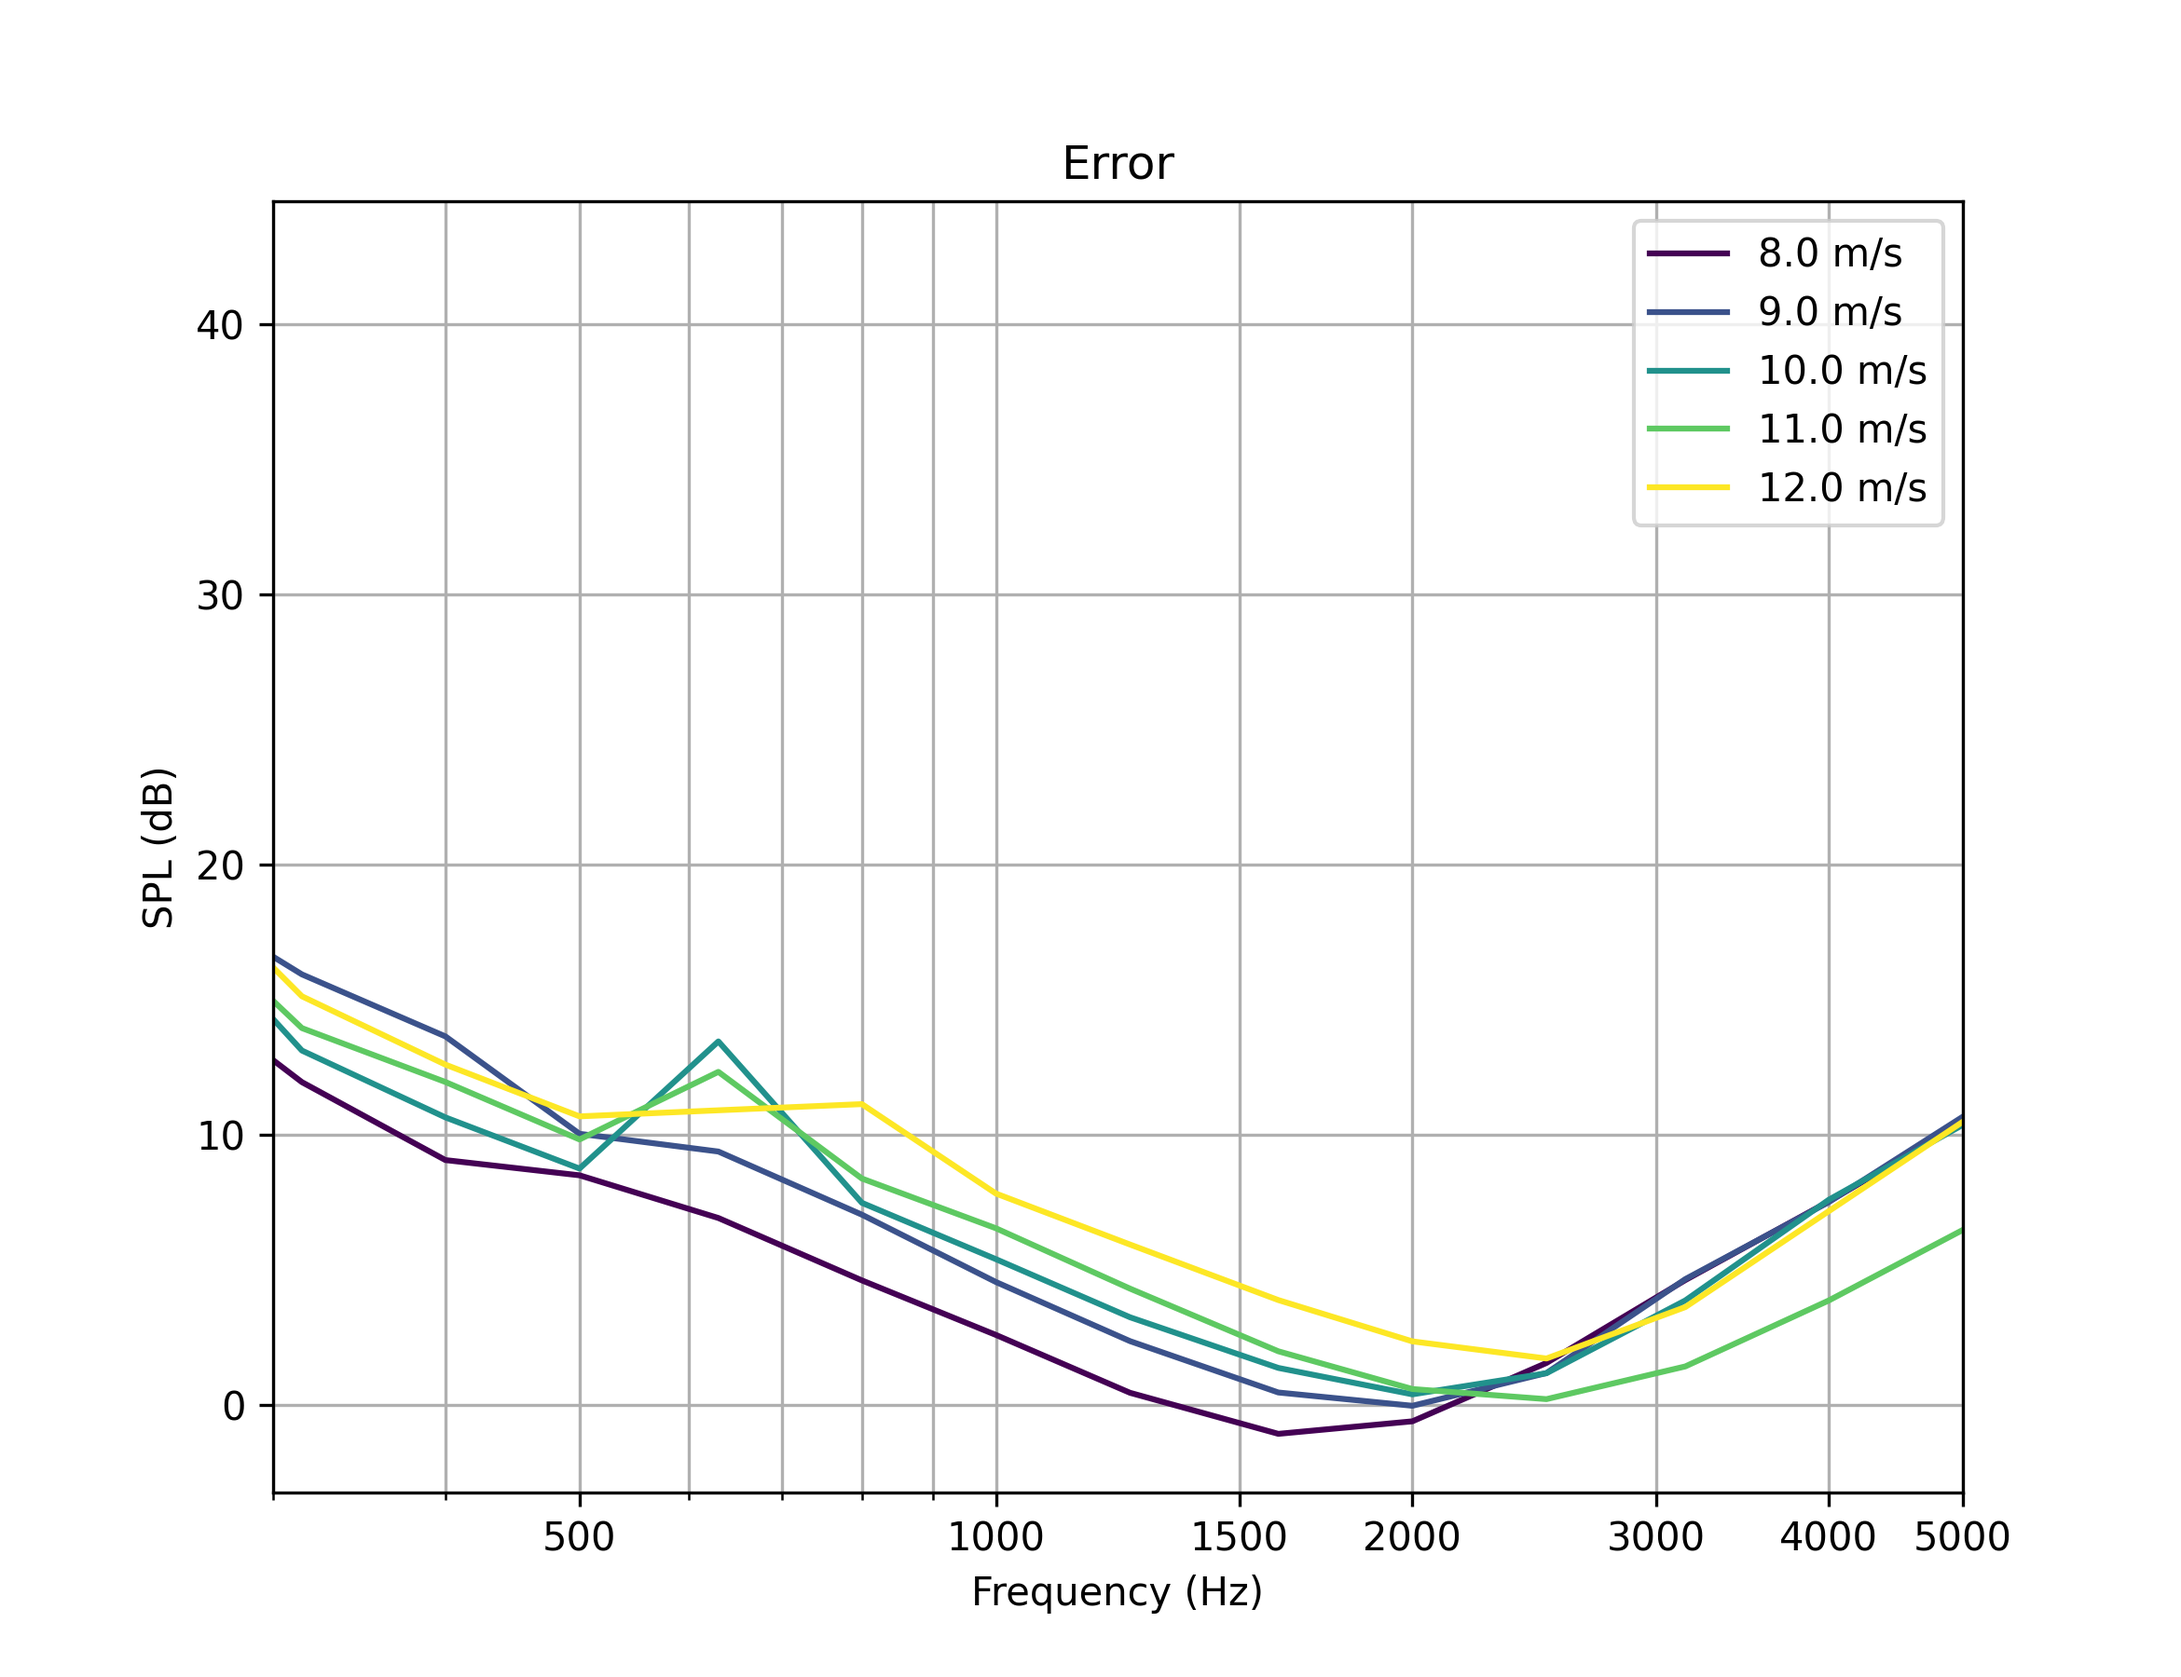
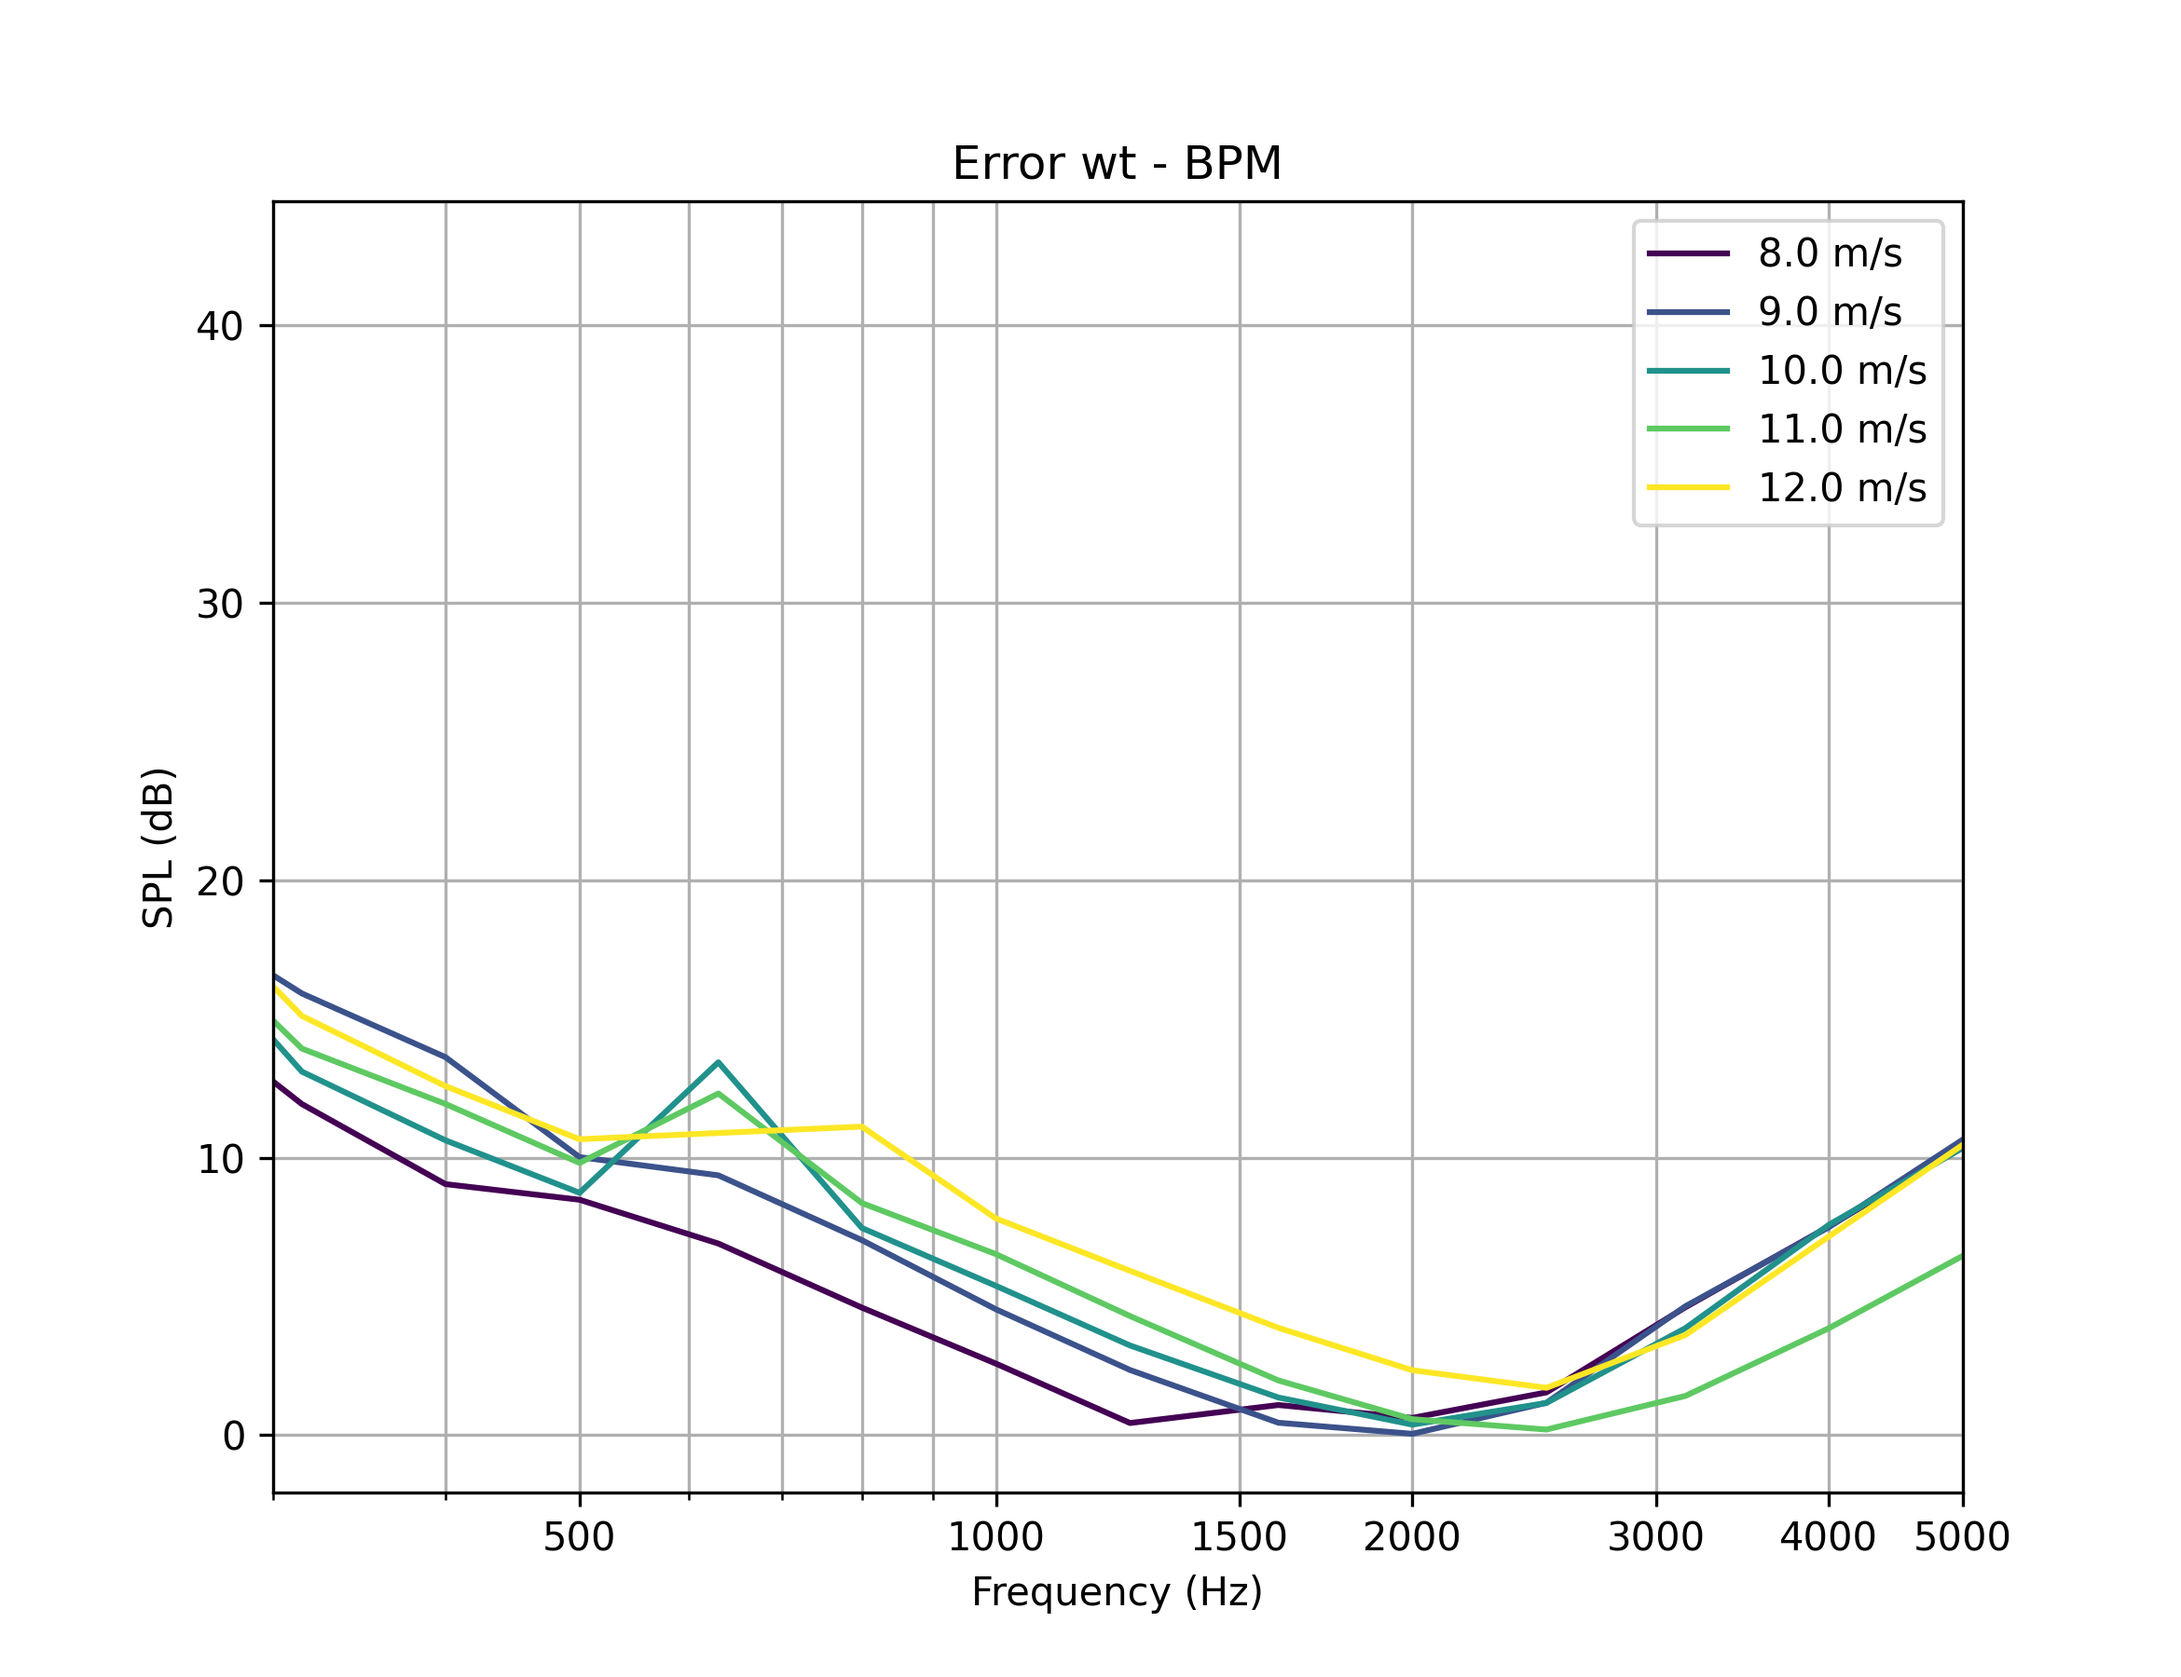
Added denoised wind tunnel data

diff --git a/plot_data.py b/plot_data.py
@@ -35,6 +35,7 @@ for v_inf in v_inf_list:
     bpm = pd.read_csv(f'BPM_BYU/data/data{int(v_inf)}.csv', sep=',')
     # Move column freq to index
     bpm = bpm.set_index('freq')
+    bpm.index = bpm.index.astype(int)
     bpm = bpm['spl']
     bpm_list.append(bpm)
 
@@ -75,21 +76,54 @@ plt.xticks(x_ticks, x_ticks)
 plt.savefig('saves/wt_spl.png', dpi=300)
 plt.show()
 
-# Plot abs error between SPL for wt and BPM
+# Plot SPL for denoised with BPM
 fig, ax = plt.subplots(figsize=(size_x, size_y))
-for wt, bpm, v_inf, color in zip(wt_spl_1_3_list, bpm_list, v_inf_list, colors):
-    error = wt - bpm
-    error.plot(ax=ax, color=color, label=f'{v_inf} m/s')
+for denoised, bpm, v_inf, color in zip(denoised_spl_1_3_list, bpm_list, v_inf_list, colors):
+    denoised.plot(ax=ax, color=color, label=f'{v_inf} m/s')
+    ax.plot(bpm, color=color, linestyle='--')
 ax.set_xscale('log')
 ax.set_xlabel('Frequency (Hz)')
 ax.set_ylabel('SPL (dB)')
 ax.legend()
 ax.grid(True, which='both')
 ax.set_xlim(f_lower, f_upper)
-plt.title('Error')
+plt.title('Denoised')
+plt.xticks(x_ticks, x_ticks)
+plt.savefig('saves/denoised_spl.png', dpi=300)
+plt.show()
+
+# Plot abs error between SPL for wt and BPM
+fig, ax = plt.subplots(figsize=(size_x, size_y))
+for wt, bpm, v_inf, color in zip(wt_spl_1_3_list, bpm_list, v_inf_list, colors):
+    error = np.abs(wt - bpm)
+    ax.plot(error, color=color, label=f'{v_inf} m/s')
+ax.set_xscale('log')
+ax.set_xlabel('Frequency (Hz)')
+ax.set_ylabel('SPL (dB)')
+ax.legend()
+ax.grid(True, which='both')
+ax.set_xlim(f_lower, f_upper)
+plt.title('Error wt - BPM')
 plt.xticks(x_ticks, x_ticks)
 plt.savefig('saves/wt_error.png', dpi=300)
 plt.show()
+
+# Plot abs error between SPL for denoised and BPM
+fig, ax = plt.subplots(figsize=(size_x, size_y))
+for denoised, bpm, v_inf, color in zip(denoised_spl_1_3_list, bpm_list, v_inf_list, colors):
+    error = np.abs(denoised[0] - bpm)
+    ax.plot(error, color=color, label=f'{v_inf} m/s')
+ax.set_xscale('log')
+ax.set_xlabel('Frequency (Hz)')
+ax.set_ylabel('SPL (dB)')
+ax.legend()
+ax.grid(True, which='both')
+ax.set_xlim(f_lower, f_upper)
+plt.title('Error denoised - BPM')
+plt.xticks(x_ticks, x_ticks)
+plt.savefig('saves/denoised_error.png', dpi=300)
+plt.show()
+
 
 
 
